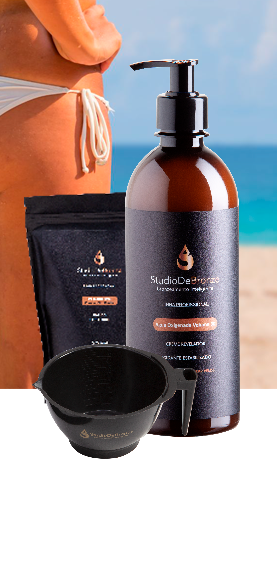
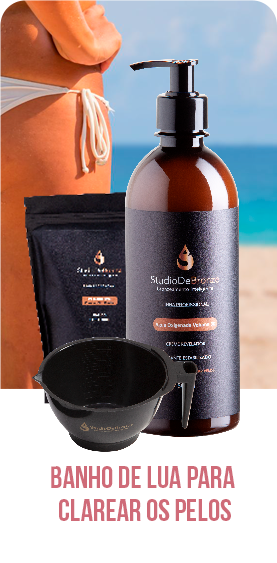
ajuste site

Changed region(s): [[0.1155, 0.5737, 0.8664, 0.9361], [0.0, 0.0, 0.0578, 0.6945], [0.9242, 0.0, 1.0, 0.0302]]

diff --git a/index.html b/index.html
@@ -70,7 +70,7 @@
           </div>
           <div class="header-btn header-btn-l-16 ms-auto d-none d-xs-inline-flex">
             <a rel="noopener noreferrer" target="_blank" class="btn btn focus-reset download-btn" href="https://api.whatsapp.com/send?phone=5511939479572&text=Quero%20Saber%20Mais%20Sobre%20StudioDeBronze">
-              Fale Agora
+              Agende Agora o seu Bronzeamento
             </a>
           </div>
           <!-- mobile menu trigger -->
@@ -126,27 +126,30 @@
           <div class="col-lg-4 col-md-6 col-sm-7">
             <div class="content-area">
               <div class="content-body">
+                <img src="image/l7/image-studiodebronze-chamada01.png" alt="" class="w-100">
                 <h1>01</h1>
                 <h6>Esfoliação Pré Bronze</h6>
-                <p>O Esfoliante Vegano é feito de microesferas de celulose e de sementes de café torrado.</p>
+                <p>Processo fundamental para arrasar no bronzeado.</p>
               </div>
             </div>
           </div>
           <div class="col-lg-4 col-md-6 col-sm-7">
             <div class="content-area">
               <div class="content-body">
+                <img src="image/l7/image-studiodebronze-chamada02.png" alt="" class="w-100">
                 <h1>02</h1>
                 <h6>Loção Autobronzeadora</h6>
-                <p> Técnica make corporal, aplicado por pulverização em todo o corpo, uniformizando cor e corrigindo possíveis marcas de roupa ou biquíni.</p>
+                <p>Além do Bronzeamento a vapor faça a manutenção em casa.</p>
               </div>
             </div>
           </div>
           <div class="col-lg-4 col-md-6 col-sm-7">
             <div class="content-area">
               <div class="content-body">
+                <img src="image/l7/image-studiodebronze-chamada03.png" alt="" class="w-100">
                 <h1>03</h1>
                 <h6>Banho de Lua</h6>
-                <p>O Banho de Lua StudioDeBronze é um tratamento especial para quem deseja clarear os pelos do corpo. .</p>
+                <p>Clarei seus pelos antes do seu Bronze.</p>
               </div>
             </div>
           </div>
@@ -159,6 +162,37 @@
         <div class="row justify-content-center">
           <div class="col-md-12">
             <div class="border-bottom">
+              <div class="row align-items-center justify-content-center">
+                <div class="col-xl-11">
+                  <div class="row align-items-center justify-content-center">
+                    <div class="col-xl-5 col-lg-6 col-md-8 col-sm-10 order-lg-1 order-1" data-aos="fade-right" data-aos-duration="800" data-aos-once="true">
+                      <div class="image-area">
+                        <img src="image/l7/image-studiodebronze-plusize.png" alt="" class="w-100">
+                      </div>
+                    </div>
+                    <div class="col-xl-4 offset-xl-2 offset-lg-1 col-lg-5 col-md-6 col-sm-8 order-lg-1 order-0 position-relative" data-aos="fade-left" data-aos-duration="800" data-aos-once="true">
+                      <div class="content section-heading-10">
+                        <span> <i class="icon icon-camera-flash-2"></i> O Método</span>
+                        <h2>Bronzeamento Artificial mais seguro que existe!</h2>
+                        <p>
+                          Quebramos todos os paradigmas sobre Bronzeamento Artificial. Vegano, aprovado pela Anvisa, cor dourada, seca instanteneamente.
+                          Linha completa de produtos para autobronzeamento.
+                        </p>
+                      </div>
+                    </div>
+                  </div>
+                </div>
+              </div>
+            </div>
+          </div>
+        </div>
+      </div>
+    </div>
+     <!-- Content-Area-2 -->
+     <div class="content-area-1-l-16 position-relative overflow-hidden">
+      <div class="container">
+        <div class="row justify-content-center">
+          <div class="col-md-12">
               <div class="row align-items-center justify-content-center">
                 <div class="col-xl-11">
                   <div class="row align-items-center justify-content-center">
@@ -178,12 +212,77 @@
                   </div>
                 </div>
               </div>
+          </div>
+        </div>
+      </div>
+    </div>
+     <!-- Testimonial Area -->
+     <div class="testimonial-area-l-16">
+      <div class="container">
+        <div class="row justify-content-center">
+          <div class="col-xxl-7 col-xl-8 col-lg-9 col-md-10" data-aos="fade-down" data-aos-duration="800" data-aos-once="true">
+            <div class="section-heading-10 text-center">
+              <h2>
+                Depoimentos
+              </h2>
+              <p>O que os médicos falam sobre StudioDeBronze?</p>
+            </div>
+          </div>
+        </div>
+        <div class="row justify-content-center" data-aos="fade-up" data-aos-duration="800" data-aos-once="true">
+          <div class="col-xl-10 col-lg-12 col-sm-11 col-md-8">
+            <div class="testimonial-slider-l-16">
+              <div class="single-slide focus-reset">
+                <div class="testimonial-card">
+                  <div class="customer-img">
+                    <img src="image/l7/testemunha-studiodebronze-01.png" alt="" class=" circle-85">
+                  </div>
+                  <p>
+                    “Meu nome é Dra. Raquel Amashta, sou derma em Palmas, e eu sou apaixonada pelo StudioDeBronze. Sempre indico aos meus pacientes, pois os efeitos do sol que em longo prazo, gera perda do colágeno e o envelhecimento precoce além de manchas e o câncer de pele que infelizmente a gente tem dado muito diagnostico, por isso eu super indico StudioDeBronze para que possamos ter essa cor que a gente tanto ama com saúde e segurança em primeiro lugar.”</p>
+                  <div class="d-flex align-items-center">
+                    <div class="user-identity">
+                      <h5>Dra Raquel Amashta</h5>
+                      <span>Dermatologista CRM 2714 RQE 2031</span>
+                    </div>
+                  </div>
+                </div>
+              </div>
+              <div class="single-slide focus-reset">
+                <div class="testimonial-card">
+                  <div class="customer-img">
+                    <img src="image/l7/testemunha-studiodebronze-02.png" alt="" class=" circle-85">
+                  </div>
+                  <p>
+                    “Eu como médico, convivo diariamente com pacientes com câncer de pele, e já que é cultural se bronzear, que nós médicos possamos orientar essas pessoas a procurar outros métodos alternativos que priorizam a saúde como esse do StudioDeBronze. Elas precisam saber que podem conseguir o mesmo resultado do bronzeado sem danificar à pele, esse raciocínio faz muito sentido.”</p>
+                  <div class="d-flex ml-1 align-items-center">
+                    <div class="user-identity">
+                      <h5>Dr. Flávio Nappi</h5>
+                      <span>Dermatologista CRM 157768 RQE 59237</span>
+                    </div>
+                  </div>
+                </div>
+              </div>
+              <div class="single-slide focus-reset">
+                <div class="testimonial-card">
+                  <div class="customer-img">
+                    <img src="image/l7/testemunha-studiodebronze-03.png" alt="" class=" circle-85">
+                  </div>
+                  <p>
+                    “Sou dermatologista e vim falar pra vocês de um bronzeamento que me encantou. Não é nada comum um dermato recomendar um bronzeamento, mas se recomendamos é porque você pode confiar. Realmente é inovador. Eles fizeram uma linha de produtos não tóxicos, não testado em animais, e que deixa sua pele muito bronzeada com uma textura fantástica!”</p>
+                  <div class="d-flex align-items-center">
+                    <div class="user-identity">
+                      <h5>Dr. Fernanda Campos</h5>
+                      <span>CRM 122.706</span>
+                    </div>
+                  </div>
+                </div>
+              </div>
             </div>
           </div>
         </div>
       </div>
     </div>
-    <!-- Content-Area-2 -->
+    <!-- Content-Area-3 -->
     <div class="content-area-2-l-16 position-relative overflow-hidden">
       <div class="container">
         <div class="row justify-content-center">
@@ -322,10 +421,55 @@
               <div class="single-slide focus-reset">
                 <div class="testimonial-card">
                   <div class="customer-img">
-                    <img src="image/l7/testemunha-studiodebronze-01.png" alt="" class=" circle-85">
+                    <img src="image/l7/testemunha-studiodebronze-04.png" alt="" class=" circle-85">
                   </div>
                   <p>
-                    “Local super fofo, lindo e organizado. Amei o atendimento do início ao fim. O bronze ficou impecável e muito uniforme. Acordei no outro dia ainda mais bronzeada com uma cor linda! Voltarei a fazer sempre!”</p>
+                    “Amei a cor que ficou a minha pele, o atendimento impecável do início ao fim. Estabelecimento atencioso com a higiene e todo reformado. Serviço bem feito, resultado imediato surpreendente.”</p>
+                  <div class="d-flex align-items-center">
+                    <div class="user-identity">
+                      <h5>Denise Yagi</h5>
+                      <span>Cliente</span>
+                    </div>
+                  </div>
+                </div>
+              </div>
+              <div class="single-slide focus-reset">
+                <div class="testimonial-card">
+                  <div class="customer-img">
+                    <img src="image/l7/testemunha-studiodebronze-05.png" alt="" class=" circle-85">
+                  </div>
+                  <p>
+                    “Menina, eu estou pasma! Não vou mentir eu tomei o primeiro banho com medo danado de sair todo o produto, igual a experiência que eu tive com o bronze a jato. Tomei banho depois de 8 horas, e vou te dizer: a cor está aqui, até a mão que a gente lava muita louça tá aqui. Nem to passando nada porque a pele ficou muito hidratada.”</p>
+                  <div class="d-flex ml-1 align-items-center">
+                    <div class="user-identity">
+                      <h5>Eanaê dos Santos Bonifácio</h5>
+                      <span>Cliente</span>
+                    </div>
+                  </div>
+                </div>
+              </div>
+              <div class="single-slide focus-reset">
+                <div class="testimonial-card">
+                  <div class="customer-img">
+                    <img src="image/l7/testemunha-studiodebronze-06.png" alt="" class=" circle-85">
+                  </div>
+                  <p>
+                    “Nossa, tudo pra mim! Meu namorado amou, os meus amigos amaram e eu estou me amando!”</p>
+                  <div class="d-flex align-items-center">
+                    <div class="user-identity">
+                      <h5>Isabela Simões</h5>
+                      <span>Cliente</span>
+                    </div>
+                  </div>
+                </div>
+              </div>
+                <div class="single-slide focus-reset">
+                <div class="testimonial-card">
+                  <div class="customer-img">
+                    <img src="image/l7/testemunha-studiodebronze-07.png" alt="" class=" circle-85">
+                  </div>
+                  <p>
+                    “O bronze ficou impecável e muito uniforme. Acordei no outro dia ainda mais bronzeada com uma cor linda! Voltarei a fazer sempre!”</p>
                   <div class="d-flex align-items-center">
                     <div class="user-identity">
                       <h5>Jéssica Turini</h5>
@@ -337,13 +481,12 @@
               <div class="single-slide focus-reset">
                 <div class="testimonial-card">
                   <div class="customer-img">
-                    <img src="image/l7/testemunha-studiodebronze-02.png" alt="" class=" circle-85">
+                    <img src="image/l7/testemunha-studiodebronze-08.png" alt="" class=" circle-85">
                   </div>
-                  <p>
-                    “Nossa, tudo pra mim! Meu namorado amor, meus amigos amaram e eu estou me amando!”</p>
-                  <div class="d-flex ml-1 align-items-center">
+                  <p>“O conceito do bronzeamento inteligente é muito bom em vários aspectos: praticidade, rapidez, eficiente e, no meu caso, seguro. Gosto de estar com a pele bronzeada, meu marido adora a marquinha do bronze mas como já tive câncer de pele (carcinoma basocelular) não posso me expor ao sol, então o bronzeamento inteligente é inclusive recomendado pela minha dermatologista."</p>
+                  <div class="d-flex align-items-center">
                     <div class="user-identity">
-                      <h5>Isabela Simões</h5>
+                      <h5>Graciela Born Manica</h5>
                       <span>Cliente</span>
                     </div>
                   </div>
@@ -352,28 +495,26 @@
               <div class="single-slide focus-reset">
                 <div class="testimonial-card">
                   <div class="customer-img">
-                    <img src="image/l7/testemunha-studiodebronze-03.png" alt="" class=" circle-85">
+                    <img src="image/l7/testemunha-studiodebronze-09.png" alt="" class=" circle-85">
                   </div>
-                  <p>
-                    “Atendimento impecável do início ao fim. Estabelecimento atencioso com a higiene e todo reformado. Serviço bem feito, resultado imediato surpreendente.”</p>
+                  <p>“Eu amei os produtos do Studio DeBronze! A pele fica com uma cor linda, com aparência saudável e um bronze muito natural! A pele fica dourada, não fica aquele alaranjado que muitos produtos entregam. Além do cheirinho que é maravilhoso e a consistência do produto que é incrível! Sempre uso e o pessoal elogia o meu "bronzeado natural"</p>
                   <div class="d-flex align-items-center">
                     <div class="user-identity">
-                      <h5>Denise Yagi</h5>
+                      <h5>Paula Rahal Castro</h5>
                       <span>Cliente</span>
                     </div>
                   </div>
                 </div>
               </div>
-                <div class="single-slide focus-reset">
+              <div class="single-slide focus-reset">
                 <div class="testimonial-card">
                   <div class="customer-img">
-                    <img src="image/l7/testemunha-studiodebronze-04.png" alt="" class=" circle-85">
+                    <img src="image/l7/testemunha-studiodebronze-10.png" alt="" class=" circle-85">
                   </div>
-                  <p>
-                    “A cor ta aqui, ta tudo aqui, até a mão que a gente lava muita louça ta aqui. Nem to passando nada por que a pele ficou muito hidratada.”</p>
+                  <p>“Já conheci um outro método que era spray tb, dentro de uma cabine tipo box, mas demorava quase 1 hora pra secar e manchava a roupa. Esse é o melhor que já fiz, não mancha a roupa, nem a toalha, nem o lençol! É prático, rápido e seguro. Por fim, é lógico que indicaria a empresa para outras pessoas, especialmente porque, além de todas as vantagens do bronzeamento inteligente, o atendimento é nota 1000 e todos os produtos são veganos."</p>
                   <div class="d-flex align-items-center">
                     <div class="user-identity">
-                      <h5>Eanaê dos Santos Bonifácio</h5>
+                      <h5>Maria Luiza Jordão</h5>
                       <span>Cliente</span>
                     </div>
                   </div>
@@ -390,11 +531,11 @@
         <div class="row justify-content-center">
           <div class="col-xl-6 col-lg-7 col-sm-10 col-md-10 text-center">
             <div class="content">
-              <h2>Fale com nossas especialistas</h2>
+              <h2>Quer saber como ter o seu próprio StudioDeBronze?</h2>
               <div class="newsletter-btns">
                   <a rel="noopener noreferrer" target="_blank" href="https://api.whatsapp.com/send?phone=5511939479572&text=Quero%20Saber%20Mais%20Sobre%20StudioDeBronze" class="btn"><i class="icon icon-chat-33 d-inline-block"></i> Fale Agora</a> 
               </div>
-              <p>Somos apaixonadas pelo o que fazemos. Proporcionamos resultados imediatos e a satisfação das nossas clientes, é o que nos move.</p>
+              <p>Também atendemos Home Care, Eventos, Festas e Casamentos.</p>
             </div>
           </div>
         </div>

diff --git a/css/main-studiodebronze.css b/css/main-studiodebronze.css
@@ -15856,8 +15856,8 @@ Content Area-1 L-11-2
 
 @media (min-width: 992px) {
   .testimonial-area-l-16 {
-    padding-top: 120px;
-    padding-bottom: 120px;
+    padding-top: 20px;
+    padding-bottom: 20px;
   }
 }
 
